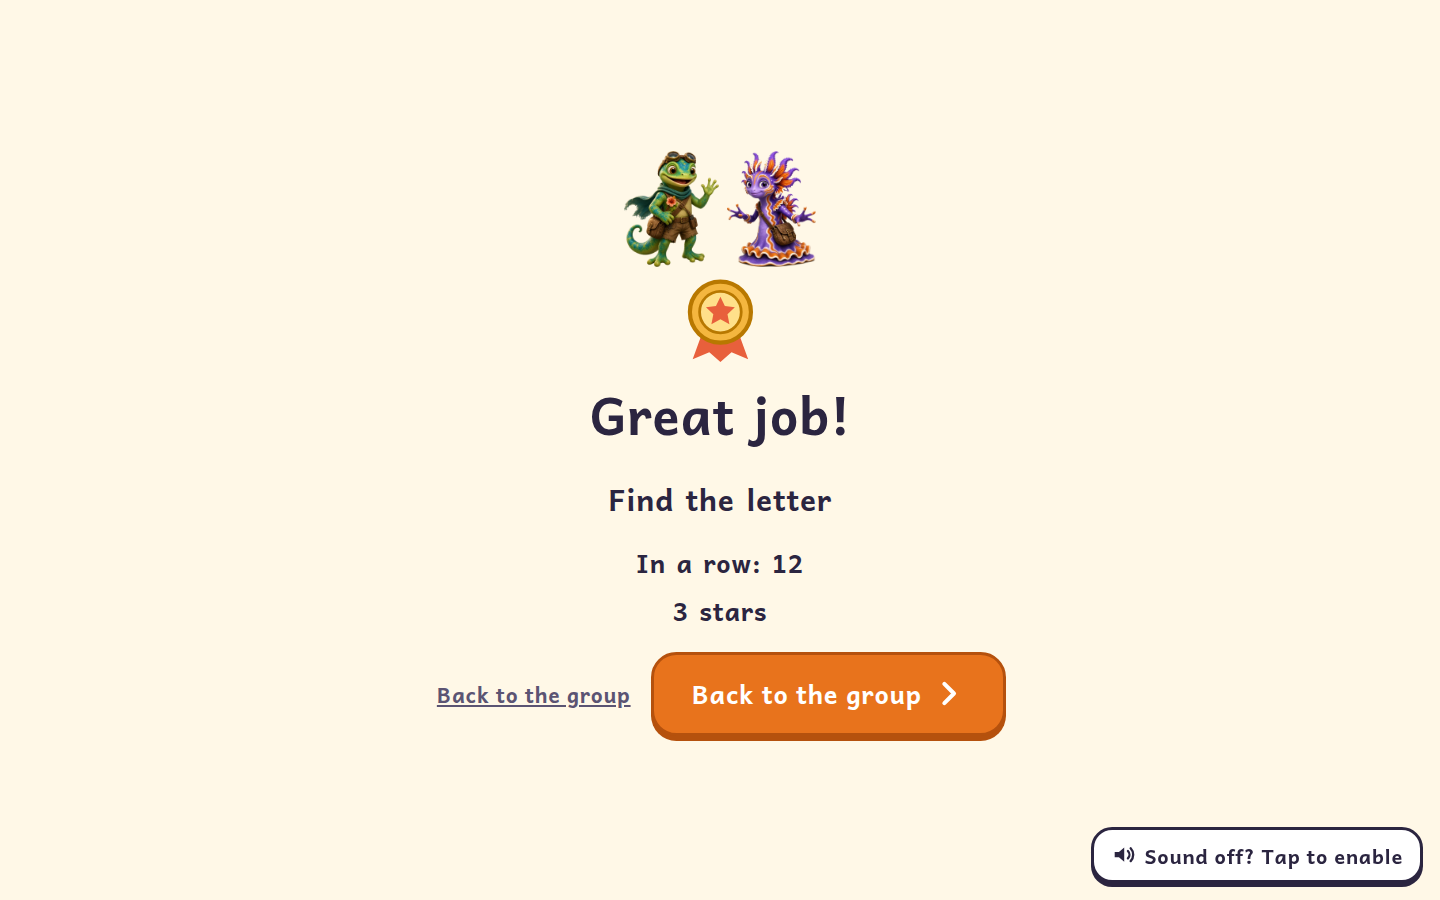
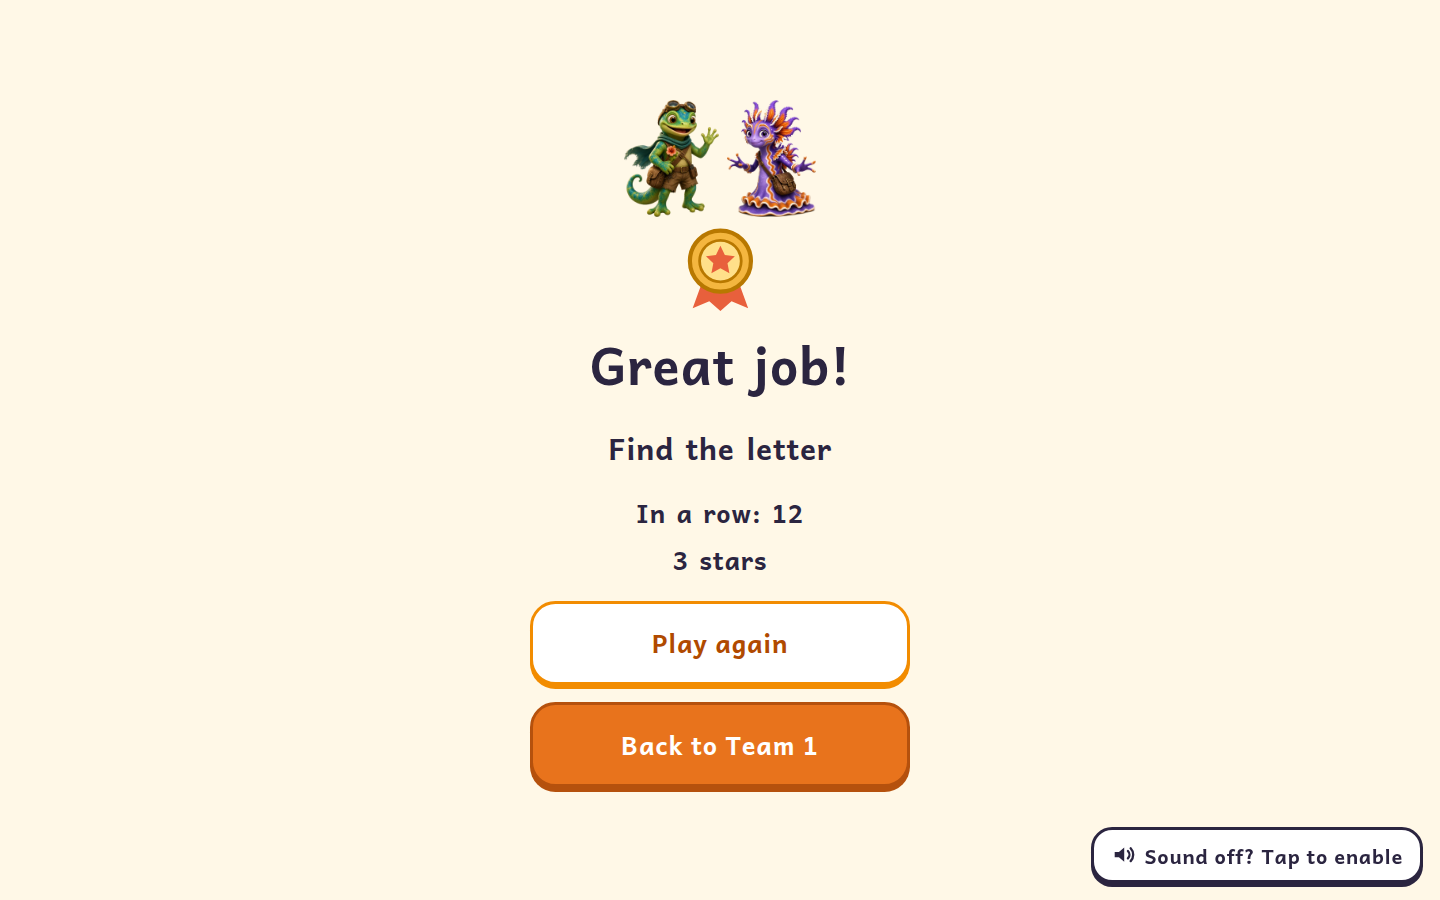
Give the team-game ending one Back to Team button.
Play again is an orange outline button. The underlined duplicate link is gone.

Changed region(s): [[0.3125, 0.0933, 0.7188, 0.9022]]

diff --git a/js/foundation/day1.js b/js/foundation/day1.js
@@ -119,15 +119,23 @@
         ctx.progress(1);
         if (PACK.onDone) PACK.onDone(again);
         IR.touchStreak();
+        const team = /^#\/foundation\/letters\/g(\d+)/.exec(back || '');
         const done = IR.engage.endScreen({
           title: label,
           stars: ctx.mistakes ? 2 : 3,
-          nextLabel: 'More games',
           backLabel: 'Play again',
-          onBack: () => { const app = document.querySelector('#app'); app.innerHTML = ''; open('#/foundation/sample/' + again, app); },
-          onNext: () => go('play')
+          nextLabel: team ? 'Back to Team ' + team[1] : 'More games',
+          onBack: () => {
+            const app = document.querySelector('#app');
+            app.innerHTML = '';
+            if (team && IR.day1Play) IR.day1Play(app, again, PACK, back);
+            else open('#/foundation/sample/' + again, app);
+          },
+          onNext: () => { if (team) location.hash = back; else go('play'); }
         });
         done.classList.add('ll1end');
+        const againBtn = done.querySelector('.menulink');
+        if (againBtn) { againBtn.classList.remove('menulink'); againBtn.classList.add('btn', 'big', 'llagain'); }
         document.querySelector('#app').append(done);
         Snd.play(A.sfx.done);
       }

diff --git a/styles.css b/styles.css
@@ -2558,6 +2558,11 @@ button.tapcard:focus-visible{outline:4px solid #1F6FEB;outline-offset:3px}
 .calmend .badgeart svg,.resultscreen .badgeart svg{width:100%;height:100%}
 .streakend,.starline{margin:0;font-weight:700;font-size:1.2rem}
 .calmend .endrow{align-items:center}
+.llend .cbox,.ll1end .cbox{text-align:center}
+.llend .endrow,.ll1end .endrow{justify-content:center;flex-wrap:wrap;gap:.8rem}
+.llend .endrow .btn,.ll1end .endrow .btn{flex:1 1 12rem;max-width:18rem;text-align:center;justify-content:center}
+.llend .llagain,.ll1end .llagain{background:#fff;color:#B04A00;border-color:#F28C00;box-shadow:0 4px 0 #F28C00;text-decoration:none}
+.llend .btn.primary .ico,.ll1end .btn.primary .ico{display:none}
 .u5step .fz-streak,.u5step .sorstreak{display:none}
 /* Smart board: large words, big taps, teacher controls. Scoped to Unit 5. */
 .teachtoggle{position:static;z-index:8;font-family:Andika,sans-serif;font-size:16px;font-weight:700;padding:6px 12px;border-radius:999px;border:3px solid #C95A10;background:#fff;color:#2B2540;flex:none}

diff --git a/js/foundation/letters.js b/js/foundation/letters.js
@@ -851,11 +851,14 @@
         const ov = IR.engage.endScreen({
           title: game.title,
           stars: stars,
-          nextLabel: 'Back to the group',
-          backLabel: 'Back to the group',
-          onBack: () => { location.hash = base; },
+          backLabel: 'Play again',
+          nextLabel: 'Back to Team ' + group.n,
+          onBack: () => { location.hash = base + '/' + game.id; },
           onNext: () => { location.hash = base; }
         });
+        ov.classList.add('llend');
+        const again = ov.querySelector('.menulink');
+        if (again) { again.classList.remove('menulink'); again.classList.add('btn', 'big', 'llagain'); }
         app.append(ov);
         Snd.play(A.sfx.done);
       }

diff --git a/sw.js b/sw.js
@@ -1,7 +1,7 @@
 /* Island Readers sample service worker.
    Code (HTML/JS/CSS/data) is network-first so a new version always wins; the cache is only an offline fallback.
    Media (images/audio/video) is cache-first. Install never fails because of one file. */
-const CACHE = 'ir-20261121a';
+const CACHE = 'ir-20261121b';
 const ASSETS = [
  "./",
  "./index.html",
